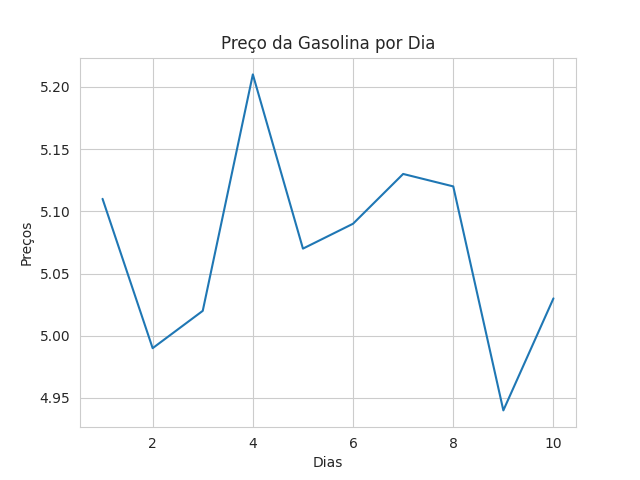
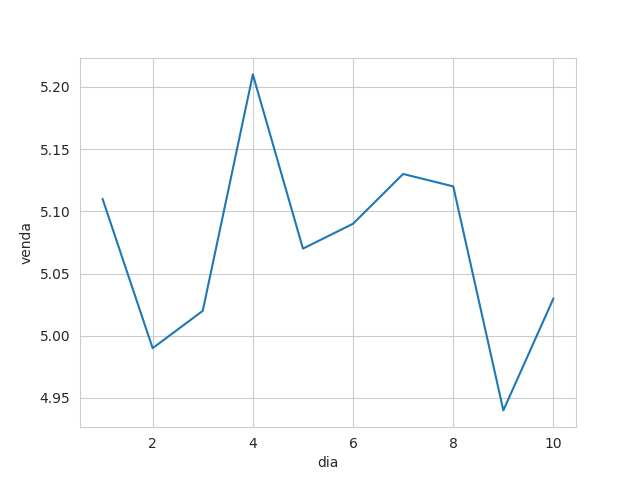
arquivo gasolina.png alterado

Changed region(s): [[0.3438, 0.0625, 0.6875, 0.125], [0.0312, 0.4688, 0.0625, 0.5625], [0.5, 0.9375, 0.5312, 1.0]]

diff --git a/gasolina.py b/gasolina.py
@@ -6,6 +6,5 @@ preços_gasolina
 # código de geração do gráfico 
 with sns.axes_style('whitegrid'):
 
-  grafico = sns.lineplot(data=preços_gasolina, x="dia",y="venda",palette="pastel")
-  grafico.set(title='Preço da Gasolina por Dia', xlabel='Dias', ylabel='Preços');
+  grafico = sns.lineplot(data=preços_gasolina, x="dia",y="venda",palette="seagree")
   plt.savefig('gasolina.png')
